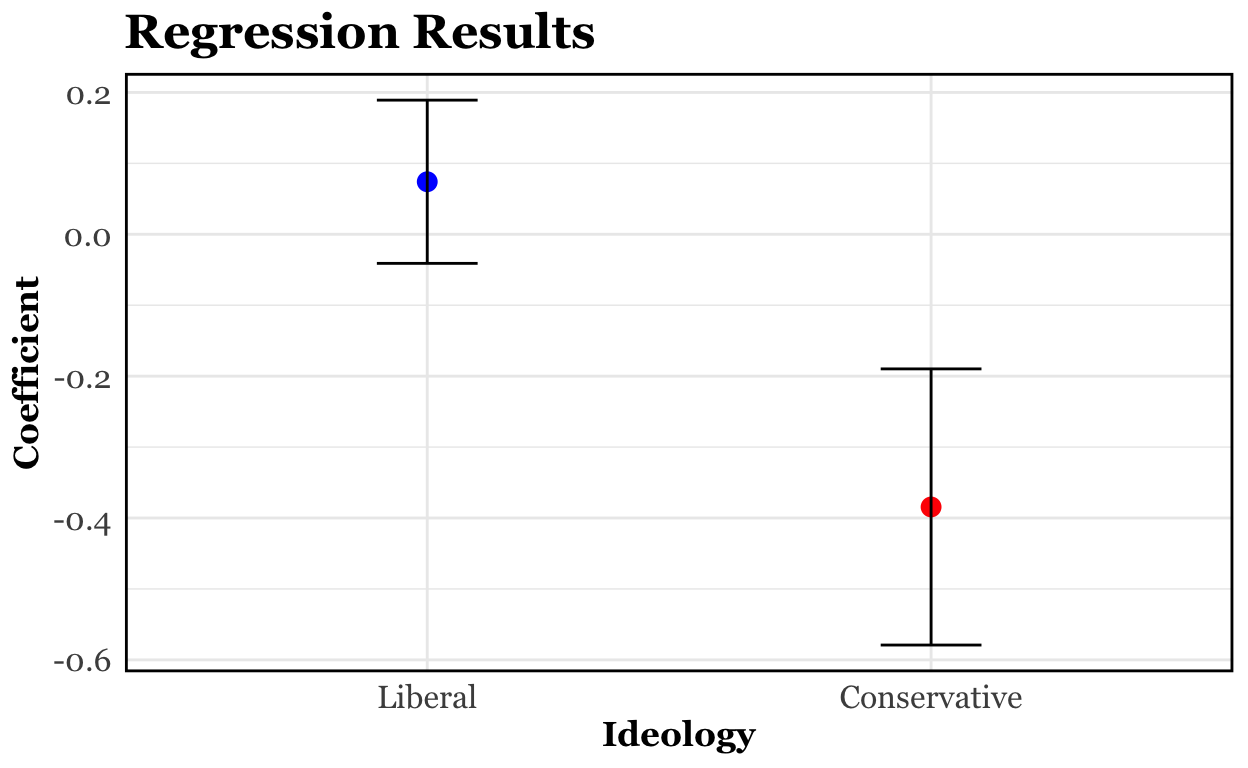
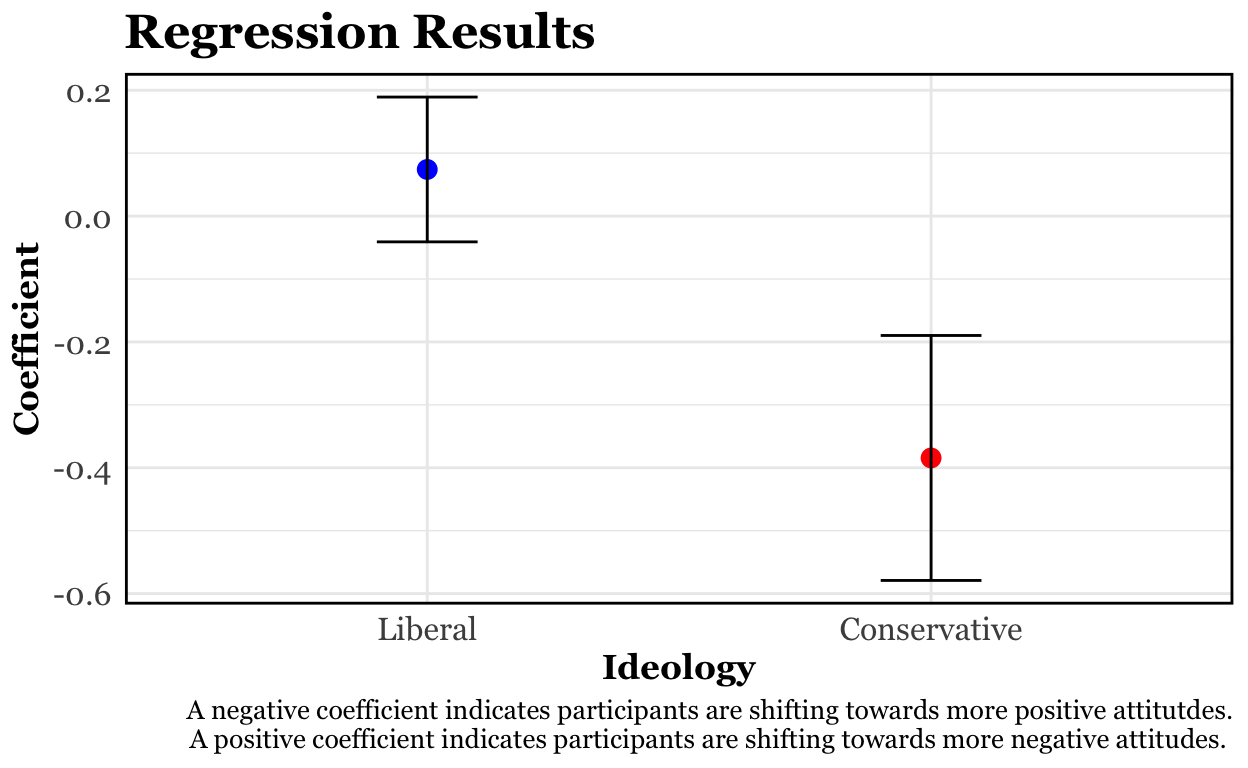
final project updates

diff --git a/index.html b/index.html
@@ -1543,11 +1543,6 @@ code span.wa { color: #5e5e5e; font-style: italic; } /* Warning */
 </div>
 
 <div class="d-article">
-<h2 id="project-ideas">Project Ideas</h2>
-<p>I’m interested in looking at the poll data based on factors such as states and voter demographics. I think it would be interesting to see if there are any correlations or relationships between voters and their attitudes regarding certain issues, such as immigration. For example, looking to see if people who have varying political ideologies had different levels of attitude change on immigration policies compared those with a different ideology. Additionally, looking to see how their political ideologies correlate between voting patterns and their overall attitudes regarding immigration policies could also be interesting.</p>
-<h2 id="my-research-question">My Research Question</h2>
-<p>How are political ideologies associated with attitudes toward immigration policies among participants, and are there differences in the level of attitude shifts regarding these policies depending on the demographic of the participant?</p>
-<p>My hypothesis is that participants with more conservative ideologies will be less likely to support increasing the number of immigrants allowed in the country. Additionally, I think there will be a greater positive shift in attitudes towards pro-immigration policies within this group. People with more conservative beliefs and values tend to oppose increasing the amount of immigrants in the country, as they often perceive immigrants as a competition for jobs and resources. However, I think that after having an interaction with an immigrant, those who tend to favor anti-immigration policies may have a greater attitude shift towards pro-immigration policies compared to those who have more liberal ideologies. I expect that people who are more liberal will have a smaller shift after this interaction, as they already tend to favor pro-immigration policies. The explanatory variable is the political ideologies of the participants. This is measured through the survey data that represents each participant from the experiment. The outcome variable is the attitude shift regarding immigration policies between participants who have different political ideologies. This is measured by observing the attitudes of the participants before and after interacting with the confederate immigrant, to determine which group has a greater attitude shift regarding immigration policies. Patterns that show participants who were conservative were more likely to start out favoring a decrease in immigrants in the country would support my hypothesis. Additionally, my hypothesis would also be supported if after the encounter with the immigrant, conservative participants had a greater shift in positive attitudes towards immigration policies compared to those with liberal ideologies. However, if patterns show a negative correlation, in which the interaction with an immigrant resulted in either a smaller shift in attitudes for conservatives compared to liberals, or if there was a negative shift in attitudes, in which conservatives were even less likely to support immigrants in the country after the interaction, then my hypothesis would be disproved.</p>
 <div class="layout-chunk" data-layout="l-body">
 <div class="sourceCode">
 <pre class="sourceCode r"><code class="sourceCode r"><span><span class='kw'><a href='https://rdrr.io/r/base/library.html'>library</a></span><span class='op'>(</span><span class='va'>ps270data</span><span class='op'>)</span></span>
@@ -1714,12 +1709,12 @@ code span.wa { color: #5e5e5e; font-style: italic; } /* Warning */
 <h2 id="results">Results</h2>
 <p>The table shows the average attitudes regarding immigration in the country before and after interacting with an immigrant from a scale of 1-5, where 1 represents the most pro-immigration attitudes and 5 represents the least pro-immigration attitudes. Additionally, it highlights the average change in attitudes for each ideology group due to this interaction. The table indicates that the most conservative participants were least supportive of increasing the number of immigrants in the country, while the most liberal participants were most supportive. This is to be expected, as the conservative ideology tends to be more supportive of stronger border control to limit the accessibility for immigrants to come into the country. The graph that represents the shift in attitudes regarding immigration policies after the participants interacted with the immigrant indicates that the participants in the “Most Conservative” ideology group had the greatest shift in attitudes compared to the other ideology groups. Additionally, the graph shows this ideology group had a significant negative shift, meaning that after they interacted with the immigrant, their attitudes shifted towards more pro-immigration policies, supporting my hypothesis. Finally, the last column in the table represents the attitudes of the participants after interacting with the immigrant. As I hypothesized, the attitudes regarding immigration policies after the treatment shows that the more liberal ideological groups tended to have a smaller shift in attitude. This is also consistent within liberal ideologies, as these political groups already tend to favor pro-immigration policies. Therefore, according to this data, political ideologies are associated with attitudes toward immigration policies. Furthermore, the “Most Conservative” ideology group had a much more significant shift in attitudes regarding these policies compared to the “Most Liberal” ideology group.</p>
 <h2 id="introduction">Introduction</h2>
-<p>My research observed how political ideologies are associated with attitudes toward immigration policies, specifically looking how the level of attitude shifts regarding these policies differed depending on the political demographic of the participant. My hypothesis is that the participants with more conservative ideologies will be initially less likely to support increasing the number of immigrants allowed in the country, but after interacting with foreigners they will have a greater positive shift in attitudes towards pro-immigration policies compared to those with democratic views. I expect that people who are more liberal will have a smaller shift after this interaction, as they already tend to favor pro-immigration policies.</p>
-<p>This is significant, particularly in our country where immigration is a very politically charged topic, as it may seek to explain how individuals’ beliefs and values evolve, while also bridging the current nation-wide political divide. By exploring how there may be some common ground between Conservatives and Liberals, this research may be able to help dismantle political polarization and enable greater opportunities for healthy discourse that can offer potential solutions to current policy debates, in this case regarding immigration.</p>
+<p>My research observed how political ideologies are associated with attitudes toward immigration policies, specifically looking how the level of attitude shifts regarding these policies differed depending on the political demographic of the participant. My hypothesis is that the participants with conservative ideologies will be initially less likely to support increasing the number of immigrants allowed in the country, but after interacting with foreigners they will have a greater shift in attitudes towards pro-immigration policies compared to those with liberal views. People with conservative beliefs and values tend to oppose increasing the amount of immigrants in the country, as they often perceive immigrants as a competition for jobs and resources. However, I think encountering foreigners in a casual setting may humanize them for these conservatives, shifting their beliefs to see them as individuals rather than as competition. I expect that liberals will have a smaller shift after this interaction, as they already tend to have positive attitudes towards immigration in the country.</p>
+<p>This research is significant, particularly in our country where immigration is a very politically charged topic, as it may seek to explain how individuals’ beliefs and values evolve, while also bridging the current nation-wide political divide. By exploring how there may be some common ground between conservatives and liberals, this research may be able to help dismantle political polarization and enable greater opportunities for healthy discourse that can offer potential solutions to current policy debates, in this case regarding immigration.</p>
 <h2 id="data">Data</h2>
-<p>The data for this research comes from a randomized field experiment conducted by Harvard Professor, Ryan Enos. He focused on individuals from overwhelmingly white communities who rode the communal train and explored how exposure to demographic change affected their political views. His study was published in the article “Causal Effect of Intergroup Contact on Exclusionary Attitudes.” In the experiment, the trains were randomly assigned to either the “Treated group” or the “Control group,” where the treatment involved the presence of two native Spanish-speaking confederates meant to simulate the predicted demographic change in the United States. Those who were in the control group never encountered the confederates.</p>
+<p>The data for this research comes from a randomized field experiment conducted by Harvard Professor, Ryan Enos. He focused on individuals from overwhelmingly white communities who rode the communal train and explored how exposure to demographic change affected their political views. His study was published in the article “Causal Effect of Intergroup Contact on Exclusionary Attitudes.” In the experiment, the trains were randomly assigned to either the “Treated group” or the “Control group,” where the treatment involved the presence of two native Spanish-speaking confederates meant to simulate the predicted demographic change in the United States. Those who were in the control group never encountered the confederates. My research uses a before-and-after design, as I am comparing the attitudes before and after the participants receive treatment to determine the degree of changes in views the participants experience.</p>
 <p>The independent variable is the political ideologies of the participants, measured by the survey data for each participant from the experiment. Political ideologies are likely to impact individuals’ pre-existing beliefs, which would set a baseline for their attitudes towards immigration before treatment, and may impact their responses to treatment. Through this method, we can determine how the treatment effects differ depending on the participants’ political ideology.</p>
-<p>The dependent variable, the participants’ shift in attitudes regarding immigration policies, is measured using a survey question, on a 5 point scale, before and after the treatment. Participants were asked whether or not the number of immigrants in the country should increase or decrease, where 1 indicates the participant believes the number of immigrants should increase and 5 indicates the participant believes the number of immigrants should decrease. The attitude shift of each ideology group is represented by the difference between their responses before and after treatment.</p>
+<p>The dependent variable, the participants’ shift in attitudes regarding immigration policies, is measured using a survey question on a 5 point Likert scale, before and after the treatment. Participants were asked whether or not the number of immigrants in the country should increase or decrease, where 1 indicates the participant believes the number of immigrants should increase and 5 indicates the participant believes the number of immigrants should decrease. The attitude shift of each ideology group is represented by the difference between their responses before and after treatment.</p>
 <div class="layout-chunk" data-layout="l-body">
 <div class="sourceCode">
 <pre class="sourceCode r"><code class="sourceCode r"><span><span class='va'>pre_treatment_plot</span> <span class='op'>&lt;-</span> <span class='fu'><a href='https://ggplot2.tidyverse.org/reference/ggplot.html'>ggplot</a></span><span class='op'>(</span><span class='va'>pre_treatment</span>, <span class='fu'><a href='https://ggplot2.tidyverse.org/reference/aes.html'>aes</a></span><span class='op'>(</span>x <span class='op'>=</span> <span class='va'>ideology_group</span>,</span>
@@ -1728,8 +1723,10 @@ code span.wa { color: #5e5e5e; font-style: italic; } /* Warning */
 <span>  <span class='fu'><a href='https://ggplot2.tidyverse.org/reference/geom_bar.html'>geom_bar</a></span><span class='op'>(</span>stat <span class='op'>=</span> <span class='st'>"identity"</span><span class='op'>)</span> <span class='op'>+</span></span>
 <span>  <span class='fu'><a href='https://ggplot2.tidyverse.org/reference/scale_manual.html'>scale_fill_manual</a></span><span class='op'>(</span>values <span class='op'>=</span> <span class='fu'><a href='https://rdrr.io/r/base/c.html'>c</a></span><span class='op'>(</span><span class='st'>"1. Most Liberal"</span> <span class='op'>=</span> <span class='st'>"blue"</span>,</span>
 <span>                               <span class='st'>"2. Liberal"</span> <span class='op'>=</span> <span class='st'>"blue"</span>,</span>
+<span>                               <span class='st'>"3. Moderate"</span> <span class='op'>=</span> <span class='st'>"grey"</span>,</span>
 <span>                               <span class='st'>"4. Conservative"</span> <span class='op'>=</span> <span class='st'>"red"</span>,</span>
-<span>                               <span class='st'>"5. Most Conservative"</span> <span class='op'>=</span> <span class='st'>"red"</span><span class='op'>)</span><span class='op'>)</span> <span class='op'>+</span></span>
+<span>                               <span class='st'>"5. Most Conservative"</span> <span class='op'>=</span> <span class='st'>"red"</span><span class='op'>)</span>,</span>
+<span>                    name <span class='op'>=</span> <span class='st'>"Political Ideology"</span><span class='op'>)</span> <span class='op'>+</span></span>
 <span>  <span class='fu'><a href='https://ggplot2.tidyverse.org/reference/labs.html'>labs</a></span><span class='op'>(</span>title <span class='op'>=</span> <span class='st'>"Attitudes Toward Immigration Policies by Ideology Before Treatment"</span>,</span>
 <span>       x <span class='op'>=</span> <span class='st'>"Ideology Group"</span>,</span>
 <span>       y <span class='op'>=</span> <span class='st'>"Attitudes Towards Immigration in the Country</span></span>
@@ -1737,7 +1734,7 @@ code span.wa { color: #5e5e5e; font-style: italic; } /* Warning */
 <span>       subtitle <span class='op'>=</span> <span class='st'>"Participants were asked if the number of immigrants in the country should increase or decrease"</span><span class='op'>)</span> <span class='op'>+</span></span>
 <span>  <span class='fu'><a href='https://ggplot2.tidyverse.org/reference/ggtheme.html'>theme_minimal</a></span><span class='op'>(</span><span class='op'>)</span> <span class='op'>+</span></span>
 <span>    <span class='fu'><a href='https://ggplot2.tidyverse.org/reference/theme.html'>theme</a></span><span class='op'>(</span></span>
-<span>    axis.text.x <span class='op'>=</span> <span class='fu'><a href='https://ggplot2.tidyverse.org/reference/element.html'>element_text</a></span><span class='op'>(</span>size <span class='op'>=</span> <span class='fl'>9</span>, family <span class='op'>=</span> <span class='st'>"Georgia"</span><span class='op'>)</span>,</span>
+<span>    axis.text.x <span class='op'>=</span> <span class='fu'><a href='https://ggplot2.tidyverse.org/reference/element.html'>element_text</a></span><span class='op'>(</span>size <span class='op'>=</span> <span class='fl'>7</span>, family <span class='op'>=</span> <span class='st'>"Georgia"</span><span class='op'>)</span>,</span>
 <span>    axis.text.y <span class='op'>=</span> <span class='fu'><a href='https://ggplot2.tidyverse.org/reference/element.html'>element_text</a></span><span class='op'>(</span>size <span class='op'>=</span> <span class='fl'>10</span>, family <span class='op'>=</span> <span class='st'>"Georgia"</span><span class='op'>)</span>,</span>
 <span>    axis.title.x <span class='op'>=</span> <span class='fu'><a href='https://ggplot2.tidyverse.org/reference/element.html'>element_text</a></span><span class='op'>(</span>size <span class='op'>=</span> <span class='fl'>12</span>, face <span class='op'>=</span> <span class='st'>"bold"</span>, family <span class='op'>=</span> <span class='st'>"Georgia"</span><span class='op'>)</span>,</span>
 <span>    axis.title.y <span class='op'>=</span> <span class='fu'><a href='https://ggplot2.tidyverse.org/reference/element.html'>element_text</a></span><span class='op'>(</span>size <span class='op'>=</span> <span class='fl'>11</span>, face <span class='op'>=</span> <span class='st'>"bold"</span>, family <span class='op'>=</span> <span class='st'>"Georgia"</span><span class='op'>)</span>,</span>
@@ -1770,7 +1767,7 @@ code span.wa { color: #5e5e5e; font-style: italic; } /* Warning */
 <span>       subtitle <span class='op'>=</span> <span class='st'>"The participants were asked the same question after interacting with the foreigners"</span><span class='op'>)</span> <span class='op'>+</span></span>
 <span>  <span class='fu'><a href='https://ggplot2.tidyverse.org/reference/ggtheme.html'>theme_minimal</a></span><span class='op'>(</span><span class='op'>)</span> <span class='op'>+</span></span>
 <span>  <span class='fu'><a href='https://ggplot2.tidyverse.org/reference/theme.html'>theme</a></span><span class='op'>(</span></span>
-<span>    axis.text.x <span class='op'>=</span> <span class='fu'><a href='https://ggplot2.tidyverse.org/reference/element.html'>element_text</a></span><span class='op'>(</span>size <span class='op'>=</span> <span class='fl'>9</span>, family <span class='op'>=</span> <span class='st'>"Georgia"</span><span class='op'>)</span>,</span>
+<span>    axis.text.x <span class='op'>=</span> <span class='fu'><a href='https://ggplot2.tidyverse.org/reference/element.html'>element_text</a></span><span class='op'>(</span>size <span class='op'>=</span> <span class='fl'>7</span>, family <span class='op'>=</span> <span class='st'>"Georgia"</span><span class='op'>)</span>,</span>
 <span>    axis.text.y <span class='op'>=</span> <span class='fu'><a href='https://ggplot2.tidyverse.org/reference/element.html'>element_text</a></span><span class='op'>(</span>size <span class='op'>=</span> <span class='fl'>10</span>, family <span class='op'>=</span> <span class='st'>"Georgia"</span><span class='op'>)</span>,</span>
 <span>    axis.title.x <span class='op'>=</span> <span class='fu'><a href='https://ggplot2.tidyverse.org/reference/element.html'>element_text</a></span><span class='op'>(</span>size <span class='op'>=</span> <span class='fl'>12</span>, face <span class='op'>=</span> <span class='st'>"bold"</span>, family <span class='op'>=</span> <span class='st'>"Georgia"</span><span class='op'>)</span>,</span>
 <span>    axis.title.y <span class='op'>=</span> <span class='fu'><a href='https://ggplot2.tidyverse.org/reference/element.html'>element_text</a></span><span class='op'>(</span>size <span class='op'>=</span> <span class='fl'>11</span>, face <span class='op'>=</span> <span class='st'>"bold"</span>, family <span class='op'>=</span> <span class='st'>"Georgia"</span><span class='op'>)</span>,</span>
@@ -1835,15 +1832,38 @@ code span.wa { color: #5e5e5e; font-style: italic; } /* Warning */
 <div class="sourceCode">
 <pre class="sourceCode r"><code class="sourceCode r"><span><span class='va'>reg1</span> <span class='op'>&lt;-</span> <span class='fu'><a href='https://rdrr.io/r/stats/lm.html'>lm</a></span><span class='op'>(</span><span class='va'>average_change</span> <span class='op'>~</span> <span class='va'>binary_variable</span>, data <span class='op'>=</span> <span class='va'>trains</span><span class='op'>)</span></span>
 <span><span class='va'>reg1_table</span> <span class='op'>&lt;-</span> <span class='fu'><a href='https://generics.r-lib.org/reference/tidy.html'>tidy</a></span><span class='op'>(</span><span class='va'>reg1</span><span class='op'>)</span></span>
-<span><span class='va'>reg1_table</span></span></code></pre>
+<span><span class='fu'>knitr</span><span class='fu'>::</span><span class='fu'><a href='https://rdrr.io/pkg/knitr/man/kable.html'>kable</a></span><span class='op'>(</span><span class='va'>reg1_table</span>, digits <span class='op'>=</span> <span class='fl'>3</span><span class='op'>)</span></span></code></pre>
 </div>
-<pre><code># A tibble: 2 × 5
-  term            estimate std.error statistic p.value
-  &lt;chr&gt;              &lt;dbl&gt;     &lt;dbl&gt;     &lt;dbl&gt;   &lt;dbl&gt;
-1 (Intercept)       0.0741     0.115     0.644  0.522 
-2 binary_variable  -0.384      0.195    -1.97   0.0517</code></pre>
+<table>
+<thead>
+<tr class="header">
+<th style="text-align: left;">term</th>
+<th style="text-align: right;">estimate</th>
+<th style="text-align: right;">std.error</th>
+<th style="text-align: right;">statistic</th>
+<th style="text-align: right;">p.value</th>
+</tr>
+</thead>
+<tbody>
+<tr class="odd">
+<td style="text-align: left;">(Intercept)</td>
+<td style="text-align: right;">0.074</td>
+<td style="text-align: right;">0.115</td>
+<td style="text-align: right;">0.644</td>
+<td style="text-align: right;">0.522</td>
+</tr>
+<tr class="even">
+<td style="text-align: left;">binary_variable</td>
+<td style="text-align: right;">-0.384</td>
+<td style="text-align: right;">0.195</td>
+<td style="text-align: right;">-1.975</td>
+<td style="text-align: right;">0.052</td>
+</tr>
+</tbody>
+</table>
 </div>
-<p>To create a clearer analysis that observed how liberals and conservatives as a whole differed in their shifts in attitude, I created a binary variable, in which the “Most Liberal” and “Liberal” groups were assigned to 0, and the “Conservative” and “Most Conservative” groups were assigned to 1. This regression output shows the relationship between these two combined ideology groups and their average change in attitudes towards immigration policies in the United States. The Intercept category represents the average change in attitudes for the reference group, here it refers to the liberal groups. The binary variable category compares the conservative groups to the liberal groups. The binary variable category compares the conservative groups to the liberal groups. The main coefficient for the intercept is 0.07407407, indicating that the average change in attitudes for liberals slightly increased. The main coefficient for the binary variable is -0.38441890, suggesting that in relation to the liberals, on average the conservatives experienced shifts that were about 0.384 less than liberals. Therefore, based on the scale of this experiment, the liberals experienced a slightly negative change in attitudes towards immigration policies, whereas the conservatives had a shift towards more positive attitudes towards immigration policies.</p>
+<p>To create a clearer analysis that observed how liberals and conservatives as a whole differed in their shifts in attitude, I created a binary variable, in which the “Most Liberal” and “Liberal” groups were assigned to 0, and the “Conservative” and “Most Conservative” groups were assigned to 1. This regression output shows the relationship between these two combined ideology groups and their average change in attitudes towards immigration policies in the United States. The Intercept category represents the average change in attitudes for the reference group, here it refers to the liberal groups. The binary variable category compares the conservative groups to the liberal groups. The binary variable category compares the conservative groups to the liberal groups. The main coefficient for the intercept is 0.074, indicating that the average change in attitudes for liberals slightly increased. The main coefficient for the binary variable is -0.384, suggesting that in relation to the liberals, on average the conservatives experienced shifts that were about 0.384 less than liberals. Therefore, based on the scale of this experiment, the liberals experienced a slightly negative change in attitudes towards immigration policies, whereas the conservatives had a shift towards more positive attitudes towards immigration policies.</p>
+<p>The p-value of the binary variable is 0.052. With an <span class="math inline">\(\alpha\)</span> of 0.05, we fail to reject the null and the variable is not statistically significant because it is greater than the significance threshold. While the main coefficient (-0.384) suggests that there could be a meaningful difference in attitude changes between liberals and conservatives, as conservatives on average shifted 0.384 points closer to positive attitudes toward immigration policies than liberals, the p-value is slightly above the significance threshold. Therefore, because the variable is just barely above the threshold, it is marginally significant, indicating that there may be a difference, but it is not significant enough to confidently claim causality.</p>
 <div class="layout-chunk" data-layout="l-body">
 <div class="sourceCode">
 <pre class="sourceCode r"><code class="sourceCode r"><span><span class='va'>reg1_plot</span> <span class='op'>&lt;-</span> <span class='fu'><a href='https://ggplot2.tidyverse.org/reference/ggplot.html'>ggplot</a></span><span class='op'>(</span><span class='va'>reg1_table</span>, <span class='fu'><a href='https://ggplot2.tidyverse.org/reference/aes.html'>aes</a></span><span class='op'>(</span>x <span class='op'>=</span> <span class='va'>term</span>, y <span class='op'>=</span> <span class='va'>estimate</span><span class='op'>)</span><span class='op'>)</span> <span class='op'>+</span></span>
@@ -1852,7 +1872,9 @@ code span.wa { color: #5e5e5e; font-style: italic; } /* Warning */
 <span>  <span class='fu'><a href='https://ggplot2.tidyverse.org/reference/labs.html'>labs</a></span><span class='op'>(</span></span>
 <span>    title <span class='op'>=</span> <span class='st'>"Regression Results"</span>,</span>
 <span>    x <span class='op'>=</span> <span class='st'>"Ideology"</span>,</span>
-<span>    y <span class='op'>=</span> <span class='st'>"Coefficient"</span></span>
+<span>    y <span class='op'>=</span> <span class='st'>"Coefficient"</span>,</span>
+<span>    caption <span class='op'>=</span> <span class='st'>"A negative coefficient indicates participants are shifting towards more positive attitutdes.</span></span>
+<span><span class='st'>    A positive coefficient indicates participants are shifting towards more negative attitudes. "</span></span>
 <span>  <span class='op'>)</span> <span class='op'>+</span></span>
 <span>  <span class='fu'><a href='https://ggplot2.tidyverse.org/reference/scale_discrete.html'>scale_x_discrete</a></span><span class='op'>(</span>labels <span class='op'>=</span> <span class='fu'><a href='https://rdrr.io/r/base/c.html'>c</a></span><span class='op'>(</span><span class='st'>"Liberal"</span>, <span class='st'>"Conservative"</span><span class='op'>)</span><span class='op'>)</span> <span class='op'>+</span></span>
 <span>  <span class='fu'><a href='https://ggplot2.tidyverse.org/reference/ggtheme.html'>theme_minimal</a></span><span class='op'>(</span><span class='op'>)</span> <span class='op'>+</span></span>
@@ -1861,6 +1883,8 @@ code span.wa { color: #5e5e5e; font-style: italic; } /* Warning */
 <span>    axis.text.y <span class='op'>=</span> <span class='fu'><a href='https://ggplot2.tidyverse.org/reference/element.html'>element_text</a></span><span class='op'>(</span>size <span class='op'>=</span> <span class='fl'>12</span>, family <span class='op'>=</span> <span class='st'>"Georgia"</span><span class='op'>)</span>,</span>
 <span>    axis.title.x <span class='op'>=</span> <span class='fu'><a href='https://ggplot2.tidyverse.org/reference/element.html'>element_text</a></span><span class='op'>(</span>size <span class='op'>=</span> <span class='fl'>13</span>, face <span class='op'>=</span> <span class='st'>"bold"</span>, family <span class='op'>=</span> <span class='st'>"Georgia"</span><span class='op'>)</span>,</span>
 <span>    axis.title.y <span class='op'>=</span> <span class='fu'><a href='https://ggplot2.tidyverse.org/reference/element.html'>element_text</a></span><span class='op'>(</span>size <span class='op'>=</span> <span class='fl'>13</span>, face <span class='op'>=</span> <span class='st'>"bold"</span>, family <span class='op'>=</span> <span class='st'>"Georgia"</span><span class='op'>)</span>,</span>
+<span>    plot.caption.position <span class='op'>=</span> <span class='st'>"panel"</span>, </span>
+<span>    plot.caption <span class='op'>=</span> <span class='fu'><a href='https://ggplot2.tidyverse.org/reference/element.html'>element_text</a></span><span class='op'>(</span>size <span class='op'>=</span> <span class='fl'>10</span>, family <span class='op'>=</span> <span class='st'>"Georgia"</span><span class='op'>)</span>, </span>
 <span>    plot.title <span class='op'>=</span> <span class='fu'><a href='https://ggplot2.tidyverse.org/reference/element.html'>element_text</a></span><span class='op'>(</span>size <span class='op'>=</span> <span class='fl'>18</span>, face <span class='op'>=</span> <span class='st'>"bold"</span>, family <span class='op'>=</span> <span class='st'>"Georgia"</span><span class='op'>)</span>,</span>
 <span>    panel.border <span class='op'>=</span> <span class='fu'><a href='https://ggplot2.tidyverse.org/reference/element.html'>element_rect</a></span><span class='op'>(</span>color <span class='op'>=</span> <span class='st'>"black"</span>, fill <span class='op'>=</span> <span class='cn'>NA</span>, size <span class='op'>=</span> <span class='fl'>1</span><span class='op'>)</span></span>
 <span>  <span class='op'>)</span></span>
@@ -1869,8 +1893,10 @@ code span.wa { color: #5e5e5e; font-style: italic; } /* Warning */
 </div>
 <p><img src="index_files/figure-html5/unnamed-chunk-14-1.png" width="624" /></p>
 </div>
-<p>This graph reflects a visualization of the regression.</p>
-<div class="sourceCode" id="cb9"><pre class="sourceCode r distill-force-highlighting-css"><code class="sourceCode r"></code></pre></div>
+<p>This graph shows a visualization of the regression output above, indicating on average, liberals experienced a small shift toward negative attitudes on immigration policies, while conservatives moved towards more positive attitudes. Additionally, it shows that not only did conservatives experience a greater overall shift, but their average attitude change also indicates they shifted toward more favorable views regarding immigration in the country. However, the wide error bars for the binary variable suggest that this estimate is less precise, meaning that there is greater uncertainty regarding the reliability for this estimate.</p>
+<h2 id="conclusion">Conclusion</h2>
+<p>Initially, the data aligned with my hypothesis, in which conservatives started out with the most negative views on immigration and on average, after encountering the confederates, they experienced a greater shift in attitudes towards more favorable attitudes on immigration compared to liberals. However, the p-value indicates the main coefficient was not statistically significant. While the coefficient shown in the regression supports my hypothesis, since the binary variable comparing conservatives to liberals was above the significance threshold, it is unclear if there is a meaningful difference in the attitude shifts between the two ideology groups. Additionally, because of the wide standard error of the binary variable, this relationship is not completely reliable. Therefore, my hypothesis is not fully supported, and these results should be taken with caution due to its lack of certainty and precision. The presence of external influences as confounding factors is one of the most significant limitations of this research. Because this experiment used a before-and-after research design, the results don’t consider the possible external influences, such as peer interactions, media exposure, or major events that could affect the participants’ shifts in attitudes. Therefore, through the fundamental problem of causal inference, it is impossible to determine the confederate interaction is what changed the participants’ attitudes. To improve my analysis, I would increase the sample size of the experiment. A larger sample size would reduce the margin of error, creating more precise and accurate estimates of the regression coefficients. This would improve the reliability and certainty of the analysis, making it more likely that a true effect and difference can be observed if it exists.</p>
+<div class="sourceCode" id="cb8"><pre class="sourceCode r distill-force-highlighting-css"><code class="sourceCode r"></code></pre></div>
 <!--radix_placeholder_article_footer-->
 <!--/radix_placeholder_article_footer-->
 </div>
@@ -1878,6 +1904,15 @@ code span.wa { color: #5e5e5e; font-style: italic; } /* Warning */
 <div class="d-appendix">
 </div>
 
+<!-- dynamically load mathjax for compatibility with self-contained -->
+<script>
+  (function () {
+    var script = document.createElement("script");
+    script.type = "text/javascript";
+    script.src  = "https://mathjax.rstudio.com/latest/MathJax.js?config=TeX-AMS-MML_HTMLorMML";
+    document.getElementsByTagName("head")[0].appendChild(script);
+  })();
+</script>
 
 <!--radix_placeholder_site_after_body-->
 <!--/radix_placeholder_site_after_body-->
